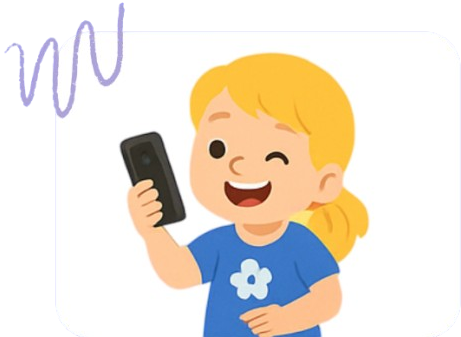
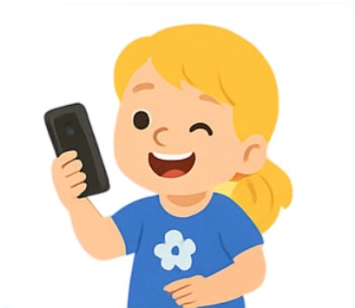
Arrrumei as telas landpage, login e cadastro, ficaram bem responsivas. (Não quebra, pelo menos)

diff --git a/appOTTO/templates/appOTTO/home.html b/appOTTO/templates/appOTTO/home.html
@@ -51,7 +51,7 @@
                             </div>
                             <div class="item">
                                 <div class="carrosel-slide-info">
-                                    <h2 id="h2-especial2"><span>Crie, experimente e aprenda!</span></h2>
+                                    <h2 id="h2-especial1"><span>Crie, experimente e aprenda!</span></h2>
                                     <p>Com atividades práticas baseadas no Scratch, é possível desenvolver projetos criativos enquanto se constroem habilidades como lógica, autonomia e resolução de problemas.</p>
                                 </div>
                                 <div class="carrosel-slide-img">
@@ -60,7 +60,7 @@
                             </div>
                             <div class="item">
                                 <div class="carrosel-slide-info">
-                                    <h2>Aprender com <span>Segurança e Tranquilidade</span></h2>
+                                    <h2 id="h2-especial1">Aprender com <span>Segurança e Tranquilidade</span></h2>
                                     <p>Sem conteúdos externos e com controle sobre as interações, garantindo um ambiente 100% apropriado para crianças.</p>
                                 </div>
                                 <div class="carrosel-slide-img">
@@ -69,7 +69,7 @@
                             </div>
                             <div class="item">
                                 <div class="carrosel-slide-info">
-                                    <h2>Aprender vira uma <span>Aventura</span></h2>
+                                    <h2 id="h2-especial1">Aprender vira uma <span>Aventura</span></h2>
                                     <p>Desafios, conquistas e recompensas fazem parte da experiência. Estimula o engajamento das crianças enquanto elas aprendem conceitos importantes sem nem perceber!</p>
                                 </div>
                                 <div class="carrosel-slide-img">

diff --git a/appOTTO/static/appOTTO/CSS/home.css b/appOTTO/static/appOTTO/CSS/home.css
@@ -136,10 +136,16 @@ nav{
 }
 
 /* Carrossel */
+
+.carrossel {
+    width: 100%;
+}
+
 .carrossel-container {
   display: flex;
   align-items: center;
   justify-content: space-evenly;
+  flex-direction: row;
   background-color: #7676F0;
   width: 100%;
 }
@@ -161,7 +167,7 @@ nav{
   background-color: #7676F0;
   display: flex;
   flex-direction: row;
-  justify-content: center;
+  justify-content: space-evenly;
   align-items: center;
 }
 
@@ -175,11 +181,19 @@ nav{
 
 .carrosel-slide-info{
     height: 100%;
+    width: 90%;
     display: flex;
     justify-content: center;
     flex-direction: column;
     justify-content: space-around;
     color: #FFFDFA;
+}
+
+.carrosel-slide-img {
+    display: flex;
+    align-items: center;
+    justify-content: center;
+    padding: 0px 4px;
 }
 
 .carrosel-slide-info h2{
@@ -205,6 +219,7 @@ nav{
 }
 
 .carrosel-slide-img img{
+    border-radius: 10px;
     width: 100%;
 }
 
@@ -281,5 +296,21 @@ footer{
 
     .login {
         margin-right: 10px;
+    }
+
+    #h2-especial1{
+        font-size: clamp(2rem, 3.5vw, 3rem);
+    }
+
+    #h2-especial2{
+        font-size: clamp(4rem, 5.5vw, 5rem);
+    }
+
+    .carrosel-slide-info span{
+        color: #F9DF73;
+    }
+
+    .carrosel-slide-info p{
+        font-size: 14px;
     }
 }

diff --git a/appOTTO/static/appOTTO/CSS/cadastro.css b/appOTTO/static/appOTTO/CSS/cadastro.css
@@ -15,6 +15,7 @@ a {
 
 html, body {
     height: 100%;
+    width: 100%;
 }
 
 nav{
@@ -22,17 +23,19 @@ nav{
     display: flex;
     justify-content: space-between;
     align-items: center;
-    padding: 10px 50px;
+    margin: 20px 0px;
 }
 
 .voltar-button{
     height: 50px;
     width: 50px;
+    margin-left: 20px;
 }
 
 .voltar-OTTO{
-    height: 80px;
+    height: 55px;
     width: 150px;
+    margin-right: 20px;
 }
 
 main{
@@ -103,27 +106,10 @@ footer{
     position: relative;
     display: flex;
     background-color: #7676F0;
-    height: 5vh;
-    margin-top: -5vh;
+    height: 30px;
+    margin-top: 10px;
     justify-content: space-evenly;
     align-items: center;
-}
-
-.rodape{
-    display: flex;
-    width: 80%;
-    height: 100%;
-    color: #F9DF73;
-    gap: 0px;
-    justify-content: space-around;
-    align-items: center;
-    text-align: center;
-}
-
-.rodape-info{
-    font-size: 20px;
-    color: #F9DF73;
-    list-style-type: none;
 }
 
 /* Cadastrar com o google */

diff --git a/appOTTO/static/appOTTO/CSS/login.css b/appOTTO/static/appOTTO/CSS/login.css
@@ -30,12 +30,13 @@ nav{
     display: flex;
     justify-content: start;
     align-items: center;
-    padding: 10px 50px;
+    margin-top: 20px;
 }
 
 .voltar-button{
     width: 50px;
     height: 50px;
+    margin-left: 20px;
 }
 
 main{
@@ -45,7 +46,7 @@ main{
     width: 100%;
     align-items: center;
     justify-content: center;
-    overflow: auto;
+    overflow-x: hidden;
 }
 
 form{
